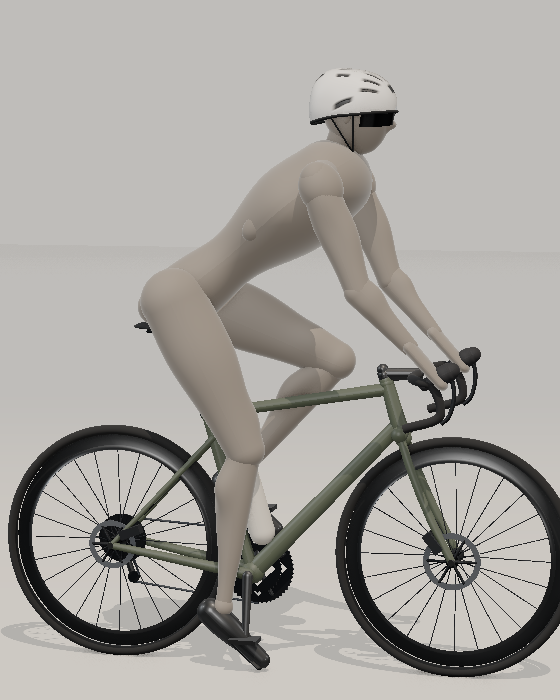
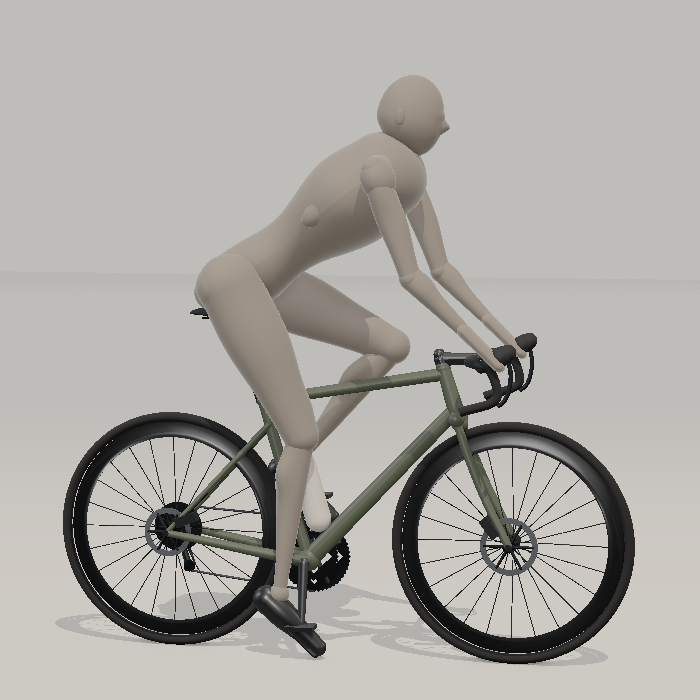
Rider: recalibrate proportions against a reference photo
Slims the arms, neck and shoulders, keeps strong quads and calves,
deepens the chest, shortens the neck, and poses the mock-up at a 36°
trunk so the elbows bend naturally. Updates the plan and mock-ups.

Claude-Session: https://claude.ai/code/session_01NLmMAFFsk38kWFHaEgHSMq

Changed region(s): [[0.0, 0.09, 1.0, 0.99]]

diff --git a/docs/plans/mockups/src/rider3.js b/docs/plans/mockups/src/rider3.js
@@ -12,7 +12,7 @@ function taperLimb(a, b, prof, sx, sz, mat) {
 }
 // Lathe limb with directional muscle bulges built into the surface.
 // bulges: [{ dir: world Vector3 (unit, ⟂ bone), t, w, amp, spread }] — radius += amp·gauss(t)·max(0,cos θ)^spread
-const FAT = 1.1;
+const FAT = 1.0;   // calibrated against the reference photo (lean pro road/TT build)
 function muscleLimb(a, b, prof0, bulges, mat, sxz = [1, 1]) {
   const prof = t => prof0(t) * FAT; const L = a.distanceTo(b), g = limbGeometry(L, prof, 48, 64), p = g.attributes.position;
   const q = new THREE.Quaternion().setFromUnitVectors(V(0, 1, 0), b.clone().sub(a).normalize()), qi = q.clone().invert();
@@ -59,42 +59,42 @@ export function buildRider(G, MAT) {
   const T3 = MAT.T || { helmet: 0xEDEAE4 };
   const { J, C, R } = G, g = new THREE.Group();
   const CL = MAT.clay, FO = MAT.focus || CL;
-  const hs = R.shoulderW / 2 + 34, hh = R.hipW / 2, st = R.stance / 2, hw = C.hoodW / 2;
+  const hs = R.shoulderW / 2 + 18, hh = R.hipW / 2, st = R.stance / 2, hw = C.hoodW / 2;
   const hip = V2(J.hip), sh = V2(J.shoulder), ax = sh.clone().sub(hip).normalize(), nrm = V(-ax.y, ax.x); // nrm = "up/back" side of torso
   const trunkA = Math.atan2(ax.y, ax.x);
   // Torso: pelvis → narrow waist → broad ribcage/lats → chest; V-taper in width, flat back
-  const torsoProf = t => 1.08 * (98 - 18 * bump(t, .36, .13) + 18 * bump(t, .78, .16));
+  const torsoProf = t => 98 - 16 * bump(t, .36, .13) + 20 * bump(t, .78, .16);
   g.add(taperLimb(hip.clone().addScaledVector(ax, -10), sh.clone().addScaledVector(ax, -18), torsoProf,
-    t => lerp(.9, 1.02, ss(.3, .85, t)), t => lerp(1.08, 1.6, ss(.28, .86, t)), CL));
-  for (const s of [-1, 1]) g.add(ell(hip.clone().lerp(sh, .66).addScaledVector(nrm, 10).setZ(s * 128), [92, 44, 34], CL, trunkA)); // lats
+    t => lerp(1.0, 1.15, ss(.3, .85, t)), t => lerp(1.08, 1.5, ss(.28, .86, t)), CL));
+  for (const s of [-1, 1]) g.add(ell(hip.clone().lerp(sh, .66).addScaledVector(nrm, 10).setZ(s * 128), [80, 36, 26], CL, trunkA)); // lats
   // (no pec masses: they read wrongly on a leaning figure — chest width carries it)
   // trapezius slope + deltoids (capped, slightly along the upper arm)
   for (const s of [-1, 1]) {
-    g.add(limb(V2(J.neckBase).add(V(-20, -6)), V2(J.shoulder, s * (hs - 16)), t => lerp(50, 42, t), CL));
+    g.add(limb(V2(J.neckBase).add(V(-20, -6)), V2(J.shoulder, s * (hs - 16)), t => lerp(42, 36, t), CL));
     const up = V2(J.elbow, s * (hs + 6)).sub(V2(J.shoulder, s * hs)).normalize();
-    const dl = ell(V2(J.shoulder, s * hs).addScaledVector(up, 26), [60, 70, 56], CL); dl.quaternion.setFromUnitVectors(V(0, 1, 0), up); g.add(dl);
+    const dl = ell(V2(J.shoulder, s * hs).addScaledVector(up, 26), [48, 58, 46], CL); dl.quaternion.setFromUnitVectors(V(0, 1, 0), up); g.add(dl);
   }
   // pelvis + glutes
   g.add(tube(V(J.hip.x - 16, J.hip.y - 4, hh), V(J.hip.x - 16, J.hip.y - 4, -hh), 78, 78, CL));
-  for (const s of [-1, 1]) g.add(ell(V(J.hip.x - 52, J.hip.y - 20, s * 54), [64, 58, 58], CL, trunkA * .3));
+  for (const s of [-1, 1]) g.add(ell(V(J.hip.x - 52, J.hip.y - 20, s * 54), [62, 56, 56], CL, trunkA * .3));
   // legs: quads (vastus + VMO teardrop), calf mass behind the shin
   const legs = [[1, J.knee, J.ankle, J.cleatL, FO], [-1, J.kneeR, J.ankleR, J.cleatR, CL]];
   for (const [s, kn, an, cl, M] of legs) {
     const h = V2(J.hip, s * hh), k = V2(kn, s * st), a = V2(an, s * st), c = V2(cl, s * st);
     const kd = k.clone().sub(h).normalize(), antT = V(-kd.y, kd.x).normalize(); if (antT.y < 0) antT.negate();
     const med = V(0, 0, -s), lat = V(0, 0, s);
-    g.add(muscleLimb(h, k, t => lerp(80, 50, t) + 6 * bump(t, .3, .2), [
+    g.add(muscleLimb(h, k, t => lerp(86, 50, t) + 6 * bump(t, .3, .2), [
       { dir: antT, t: .45, w: .22, amp: 16, spread: 2 },                               // rectus / vastus mass
-      { dir: antT.clone().add(med).normalize(), t: .84, w: .08, amp: 14, spread: 3 },  // VMO teardrop
-      { dir: lat, t: .45, w: .2, amp: 12, spread: 2 },                                 // vastus lateralis sweep
+      { dir: antT.clone().add(med).normalize(), t: .84, w: .08, amp: 10, spread: 3 },  // VMO teardrop
+      { dir: lat, t: .45, w: .2, amp: 9, spread: 2 },                                 // vastus lateralis sweep
       { dir: antT.clone().negate(), t: .35, w: .2, amp: 8, spread: 2 },                // hamstrings
     ], M, [1, .92]));
-    g.add(sphere(k, 54, M, [1, 1, .9]));
+    g.add(sphere(k, 50, M, [1, 1, .9]));
     const sd = a.clone().sub(k).normalize(); let post = V(sd.y, -sd.x).normalize(); if (post.x > 0) post.negate();
-    g.add(muscleLimb(k, a, t => lerp(42, 22, t) - 3 * bump(t, .85, .1), [
-      { dir: post.clone().add(med.clone().multiplyScalar(.75)).normalize(), t: .3, w: .12, amp: 36, spread: 4 },  // gastrocnemius medial head (lower, fuller)
-      { dir: post.clone().add(lat.clone().multiplyScalar(.75)).normalize(), t: .24, w: .1, amp: 28, spread: 4 },  // lateral head (higher) → diamond split
-      { dir: post, t: .5, w: .12, amp: 12, spread: 3 },                                                           // soleus
+    g.add(muscleLimb(k, a, t => lerp(40, 20, t) - 2 * bump(t, .85, .1), [
+      { dir: post.clone().add(med.clone().multiplyScalar(.75)).normalize(), t: .3, w: .11, amp: 30, spread: 4 },  // gastrocnemius medial head (lower, fuller)
+      { dir: post.clone().add(lat.clone().multiplyScalar(.75)).normalize(), t: .24, w: .09, amp: 22, spread: 4 },  // lateral head (higher) → diamond split
+      { dir: post, t: .5, w: .12, amp: 8, spread: 3 },                                                           // soleus
       { dir: med, t: .52, w: .12, amp: 8, spread: 3 },                                                            // soleus medial flare
       { dir: lat, t: .3, w: .16, amp: 5, spread: 2 },                                                            // tibialis/peroneals
     ], M, [1, .92]));
@@ -107,20 +107,20 @@ export function buildRider(G, MAT) {
   for (const s of [-1, 1]) {
     const shp = V2(J.shoulder, s * hs), el = V2(J.elbow, s * (hs + 6)), wr = V2(J.wrist, s * hw), hd = V2(J.hands, s * hw);
     const ud = el.clone().sub(shp).normalize(); let ant = V(-ud.y, ud.x).normalize(); if (ant.x < 0) ant.negate();
-    g.add(muscleLimb(shp, el, t => lerp(42, 33, t), [
-      { dir: ant, t: .52, w: .18, amp: 12, spread: 2 },               // biceps
-      { dir: ant.clone().negate(), t: .38, w: .2, amp: 13, spread: 2 }, // triceps
+    g.add(muscleLimb(shp, el, t => lerp(36, 28, t), [
+      { dir: ant, t: .52, w: .18, amp: 8, spread: 2 },               // biceps
+      { dir: ant.clone().negate(), t: .38, w: .2, amp: 9, spread: 2 }, // triceps
       { dir: V(0, 0, s), t: .2, w: .14, amp: 8, spread: 2 },            // deltoid insertion
     ], CL));
-    g.add(sphere(el, 36, CL));
+    g.add(sphere(el, 30, CL));
     const fd = wr.clone().sub(el).normalize(); let up2 = V(-fd.y, fd.x).normalize(); if (up2.y < 0) up2.negate();
-    g.add(muscleLimb(el, wr, t => lerp(36, 21, t), [{ dir: up2, t: .18, w: .14, amp: 10, spread: 2 }, { dir: V(0, 0, s), t: .22, w: .15, amp: 6, spread: 2 }], CL, [1, .86]));
+    g.add(muscleLimb(el, wr, t => lerp(31, 18, t), [{ dir: up2, t: .18, w: .14, amp: 8, spread: 2 }, { dir: V(0, 0, s), t: .22, w: .15, amp: 6, spread: 2 }], CL, [1, .86]));
     const hEnd = hd.clone().add(hd.clone().sub(wr).normalize().multiplyScalar(28));
     g.add(limb(wr, hEnd, t => lerp(24, 21, t), MAT.glove, [.78, 1.3]));
   }
   // neck (thick), head, jaw, glasses, helmet
   const headC = V2(J.head);
-  g.add(tube(sh.clone().add(V(-12, -22)), headC.clone().add(V(-26, -44)), 54, 49, CL));
+  g.add(tube(sh.clone().add(V(-12, -22)), headC.clone().add(V(-26, -44)), 44, 40, CL));
   const na = Math.atan2(J.head.y - J.neckBase.y, J.head.x - J.neckBase.x), gaze = na - d2r(78);
   const H = new THREE.Group(); H.position.copy(headC); H.rotation.z = gaze; g.add(H);
   // head (head-local: +x gaze, +y up, +z left): one deformed ellipsoid — cranium, tapered jaw, subtle nose ridge

diff --git a/docs/plans/mockups/src/draw2d.js b/docs/plans/mockups/src/draw2d.js
@@ -97,19 +97,19 @@ export function clayDefs(tok) {
 export function clayFigure(G, part) {
   const { J } = G; const s = [];
   const Pg = p => `<polygon class="clay" points="${p}"/>`;
-  if (part === 'farLeg') { s.push(Pg(seg(J.hip, J.kneeR, t => 1.1 * lerp(84, 51, t) + 12 * bumpf(t, .3, .2))), Pg(seg(J.kneeR, J.ankleR, t => 1.1 * lerp(45, 27, t) + 8 * bumpf(t, .3, .14)))); const sd = Math.atan2(J.ankleR.y - J.kneeR.y, J.ankleR.x - J.kneeR.x); const cc = v(lerp(J.kneeR.x, J.ankleR.x, .28) - 26, lerp(J.kneeR.y, J.ankleR.y, .28)); s.push(Pg(ellP(cc, 96, 48, sd))); }
-  if (part === 'farArm') s.push(Pg(seg(J.shoulder, J.elbow, t => 1.1 * lerp(46, 35, t) + 9 * bumpf(t, .45, .2))), Pg(seg(J.elbow, J.wrist, t => 1.1 * lerp(41, 23, t) + 7 * bumpf(t, .18, .14))));
+  if (part === 'farLeg') { s.push(Pg(seg(J.hip, J.kneeR, t => lerp(86, 50, t) + 12 * bumpf(t, .3, .2))), Pg(seg(J.kneeR, J.ankleR, t => lerp(40, 20, t) + 6 * bumpf(t, .3, .14)))); const sd = Math.atan2(J.ankleR.y - J.kneeR.y, J.ankleR.x - J.kneeR.x); const cc = v(lerp(J.kneeR.x, J.ankleR.x, .28) - 26, lerp(J.kneeR.y, J.ankleR.y, .28)); s.push(Pg(ellP(cc, 90, 44, sd))); }
+  if (part === 'farArm') s.push(Pg(seg(J.shoulder, J.elbow, t => lerp(36, 28, t) + 7 * bumpf(t, .45, .2))), Pg(seg(J.elbow, J.wrist, t => lerp(31, 18, t) + 6 * bumpf(t, .18, .14))));
   if (part === 'body') {
     const ax = Math.atan2(J.shoulder.y - J.hip.y, J.shoulder.x - J.hip.x);
-    s.push(Pg(seg(v(J.hip.x - Math.cos(ax) * 10, J.hip.y - Math.sin(ax) * 10), v(J.shoulder.x - Math.cos(ax) * 18, J.shoulder.y - Math.sin(ax) * 18), t => 1.08 * (98 - 18 * bumpf(t, .36, .13) + 18 * bumpf(t, .78, .16)) * lerp(.9, 1.02, Math.min(1, Math.max(0, (t - .3) / .55))))));
-    s.push(Pg(ellP(v(J.hip.x - 16, J.hip.y - 4), 80, 78)), Pg(ellP(v(J.hip.x - 52, J.hip.y - 20), 68, 62, ax * .3)));
-    s.push(Pg(seg(v(J.neckBase.x - 20, J.neckBase.y - 6), J.shoulder, t => 1.1 * lerp(50, 42, t))));
-    s.push(Pg(seg(v(J.shoulder.x - 12, J.shoulder.y - 22), v(J.head.x - 26, J.head.y - 44), t => 1.1 * lerp(58, 52, t))));
+    s.push(Pg(seg(v(J.hip.x - Math.cos(ax) * 10, J.hip.y - Math.sin(ax) * 10), v(J.shoulder.x - Math.cos(ax) * 18, J.shoulder.y - Math.sin(ax) * 18), t => (98 - 16 * bumpf(t, .36, .13) + 20 * bumpf(t, .78, .16)) * lerp(.9, 1.02, Math.min(1, Math.max(0, (t - .3) / .55))))));
+    s.push(Pg(ellP(v(J.hip.x - 16, J.hip.y - 4), 80, 78)), Pg(ellP(v(J.hip.x - 52, J.hip.y - 20), 62, 56, ax * .3)));
+    s.push(Pg(seg(v(J.neckBase.x - 20, J.neckBase.y - 6), J.shoulder, t => lerp(42, 36, t))));
+    s.push(Pg(seg(v(J.shoulder.x - 12, J.shoulder.y - 22), v(J.head.x - 26, J.head.y - 44), t => lerp(44, 40, t))));
     const ua = Math.atan2(J.elbow.y - J.shoulder.y, J.elbow.x - J.shoulder.x);
-    s.push(Pg(ellP(v(J.shoulder.x + Math.cos(ua) * 26, J.shoulder.y + Math.sin(ua) * 26), 70, 58, ua)));
-    s.push(Pg(seg(J.shoulder, J.elbow, t => 1.1 * lerp(46, 35, t) + 9 * bumpf(t, .45, .2))), Pg(seg(J.elbow, J.wrist, t => 1.1 * lerp(41, 23, t) + 7 * bumpf(t, .18, .14))));
+    s.push(Pg(ellP(v(J.shoulder.x + Math.cos(ua) * 24, J.shoulder.y + Math.sin(ua) * 24), 58, 48, ua)));
+    s.push(Pg(seg(J.shoulder, J.elbow, t => lerp(36, 28, t) + 7 * bumpf(t, .45, .2))), Pg(seg(J.elbow, J.wrist, t => lerp(31, 18, t) + 6 * bumpf(t, .18, .14))));
   }
-  if (part === 'nearLeg') { s.push(Pg(seg(J.hip, J.knee, t => 1.1 * lerp(84, 51, t) + 12 * bumpf(t, .3, .2))), Pg(seg(J.knee, J.ankle, t => 1.1 * lerp(45, 27, t) + 8 * bumpf(t, .3, .14)))); const sd = Math.atan2(J.ankle.y - J.knee.y, J.ankle.x - J.knee.x); const cc = v(lerp(J.knee.x, J.ankle.x, .28) - 26, lerp(J.knee.y, J.ankle.y, .28)); s.push(Pg(ellP(cc, 96, 48, sd))); }
+  if (part === 'nearLeg') { s.push(Pg(seg(J.hip, J.knee, t => lerp(86, 50, t) + 12 * bumpf(t, .3, .2))), Pg(seg(J.knee, J.ankle, t => lerp(40, 20, t) + 6 * bumpf(t, .3, .14)))); const sd = Math.atan2(J.ankle.y - J.knee.y, J.ankle.x - J.knee.x); const cc = v(lerp(J.knee.x, J.ankle.x, .28) - 26, lerp(J.knee.y, J.ankle.y, .28)); s.push(Pg(ellP(cc, 90, 44, sd))); }
   return s.join('');
 }
 export function clayHead(G) {

diff --git a/docs/plans/mockups/src/geom.js b/docs/plans/mockups/src/geom.js
@@ -10,12 +10,12 @@ function cc(a, b, ra, rb) {
   const u = norm(sub(b, a)), n = v(-u.y, u.x), m = add(a, mul(u, x));
   return [add(m, mul(n, h)), add(m, mul(n, -h))];
 }
-export function build(saddleDelta = 0, sex = 'm', trunkDeg = 38) {
+export function build(saddleDelta = 0, sex = 'm', trunkDeg = 36) {
   const male = sex === 'm';
   const H = male ? 1800 : 1680;
   // Optimal road-racer bases: male 1800 mm / 70 kg, female 1680 mm / 58 kg
   const R = male
-    ? { thigh: 465, shank: 455, torso: 560, upper: 320, fore: 300, hipOff: 95, foot: 270, shoulderW: 380, hipW: 190, stance: 155, weight: 70 }
+    ? { thigh: 465, shank: 455, torso: 545, upper: 305, fore: 300, hipOff: 95, foot: 270, shoulderW: 380, hipW: 190, stance: 155, weight: 70 }
     : { thigh: 440, shank: 425, torso: 480, upper: 292, fore: 275, hipOff: 90, foot: 245, shoulderW: 345, hipW: 200, stance: 150, weight: 58 };
   const F = male ? { stack: 560, reach: 385, ha: 73, sa: 73.5, bbDrop: 70, cs: 410, wr: 340 } : { stack: 530, reach: 376, ha: 72, sa: 74, bbDrop: 72, cs: 408, wr: 340 };
   const C = male ? { crank: 172.5, stem: 100, stemAng: -6, spacers: 20, barReach: 78, hoodW: 400, cleatSetback: 12 } : { crank: 165, stem: 80, stemAng: -6, spacers: 15, barReach: 70, hoodW: 370, cleatSetback: 10 };
@@ -60,7 +60,7 @@ export function build(saddleDelta = 0, sex = 'm', trunkDeg = 38) {
   const wrist = add(elbow, mul(norm(sub(hands, elbow)), R.fore - palm));
   const spine = add(hip, mul(sub(shoulder, hip), 0.4));
   const neckAng = d2r(55) - 0.6 * trunk, headDir = trunk + neckAng;
-  const head = add(shoulder, mul(v(Math.cos(headDir), Math.sin(headDir)), 185));
+  const head = add(shoulder, mul(v(Math.cos(headDir), Math.sin(headDir)), 160));
   const neckBase = add(shoulder, mul(sub(head, shoulder), 0.15));
   const ankle = ankL0, ankleR = ankR0;
   // KOPS: knee x at 3 o'clock minus spindle x

diff --git a/docs/plans/mockups/src/app.html b/docs/plans/mockups/src/app.html
@@ -92,7 +92,7 @@ const left = `<div class="col">
  <div class="sec" style="border-top:0;padding-top:0"><h4>Body <span>MEASURED</span></h4>${slider('HEIGHT', 1800, 'mm', 55)}${slider('INSEAM', 852, 'mm', 52)}${slider('WEIGHT', 74, 'kg', 40)}
   <div class="seg"><span class="on">CONTACT</span><span>SADDLE HEIGHT</span></div></div>
  <div class="tier"><b>02</b>POSTURE</div>
- <div class="sec" style="border-top:0;padding-top:0"><div class="seg" style="margin-bottom:12px"><span class="on">ENDURANCE</span><span>FAST</span><span>RACE</span></div>${slider('TRUNK ANGLE', 38, '°', 38, [30, 55])}${slider('BACK BEND', 5, '°', 25)}</div>
+ <div class="sec" style="border-top:0;padding-top:0"><div class="seg" style="margin-bottom:12px"><span class="on">ENDURANCE</span><span>FAST</span><span>RACE</span></div>${slider('TRUNK ANGLE', 36, '°', 36, [30, 55])}${slider('BACK BEND', 5, '°', 25)}</div>
  <div class="tier"><b>03</b>BIKE</div>
  <div class="sec" style="border-top:0;padding-top:0"><div class="sel" style="margin-bottom:12px"><span>Endurance Road · 56</span><em>▾</em></div>
   ${slider('STEM', 100, 'mm', 50)}${slider('STEM ANGLE', '−6', '°', 40)}${slider('SPACERS', 20, 'mm', 33)}${slider('SADDLE HEIGHT', Math.round(M.saddle_height), 'mm', 62)}</div>

diff --git a/docs/plans/site-redesign.md b/docs/plans/site-redesign.md
@@ -304,9 +304,13 @@ Restyle only. Positions come from the existing `bike` / `mannequin` sketches in 
     product.
   - **2D:** the head profile is the z=0 slice of `headDeform`, so 2D and 3D share one model.
   - **Reference:** `mockups/09-head.png`.
-- **Build:** all limb profiles and muscle amplitudes are ×1.1, the torso ×1.08, glutes (64, 58, 58); a little fuller than a
-  climber. **Calves:** gastrocnemius medial amp 36 (t 0.30) and lateral amp 28 (t 0.24), both spread 4 and angled 0.75
-  towards medial/lateral so the diamond split shows. Soleus amp 12 plus a medial flare, and an ankle pinch at t 0.85.
+- **Build: calibrated against a reference photo of a lean pro rider** (proportions measured using the 700c wheel,
+  ~680 mm, as the scale). No global "fat" factor.
+  - Thigh r 86→50 plus quad bulges; calf base 40→20, with gastrocnemius amps 30 / 22.
+  - Lean arms: upper r 36→28, forearm r 31→18. Shoulders 18 mm outboard of the joints, deltoids 48×58×46.
+  - Torso r 98 (waist pinch 16, chest +20), with a deeper chest: depth scale 1.0→1.15, width 1.08→1.5.
+  - Neck r 44→40; neck length 160 mm (was 185).
+  - The mock-up pose uses trunk 36°, so the elbows bend (~27°) like the reference. Real poses still come from the app's IK.
 
 ### 5.6 3D view (tracks C and E)
 
